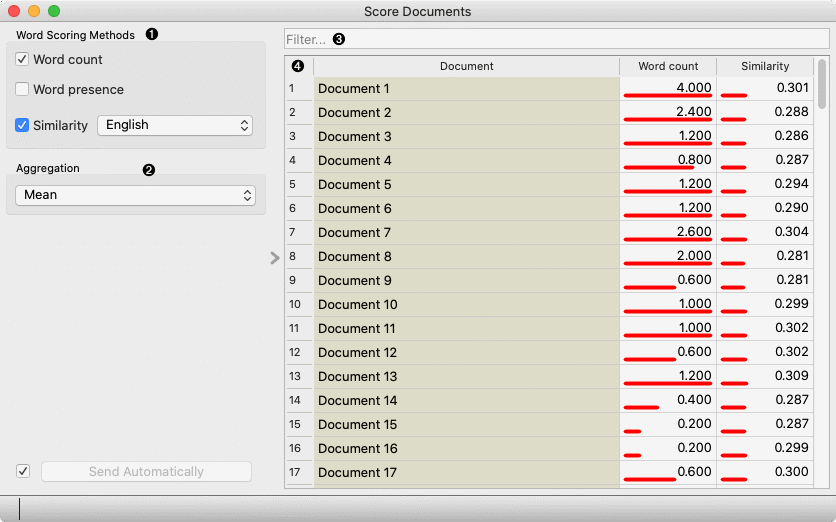
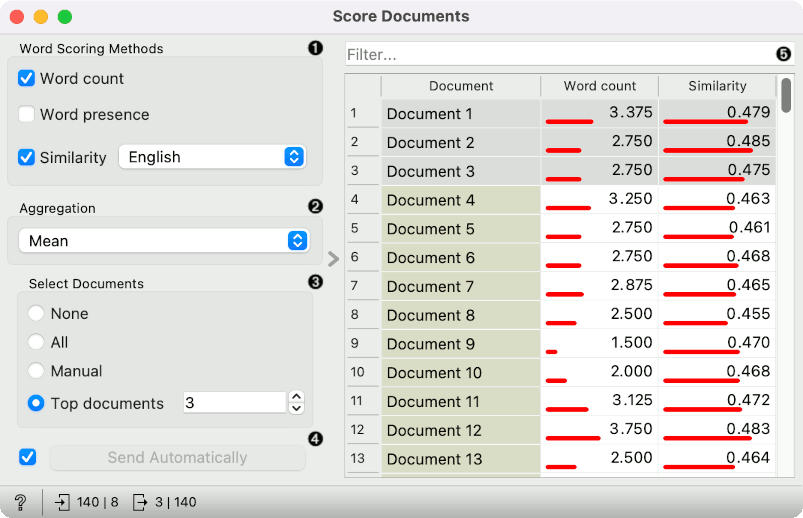
[DOC] Score Documents

diff --git a/doc/widgets/score-documents.md b/doc/widgets/score-documents.md
@@ -20,6 +20,24 @@ Scores documents based on word appearance.
    - **Word frequency**: The count of the frequency of a word in the text.  
    - **Word ratio**: Indicate the appearance of the word in the document.
    - **Similarity**: The cosine similarity between document embedding and word embedding.
-2. Select aggregation function to aggregate word scores in document scores.
-3. Filter documents based on the document title in the first column
-4. The table with the document titles in the first column and scores for in other columns.
+2. Select aggregation function to aggregate word scores to document scores (mean, median, min or max).
+3. Select documents:
+   - None: no documents are on the output
+   - All: the entire corpus is on the output
+   - Manual: manually select the documents from the table
+   - Top documents: n top-scored documents are sent to the output
+4. If *Send Automatically*, changes are communicated automatically. Alternatively press *Send*.
+5. Filter documents based on the document title in the first column. Below is the table with the document titles in the first column and scores in other columns.
+
+Example
+-------
+
+Score Documents is used to find documents that are semantically similar to the input word list. In the example below, we are using the *book-excerpts* corpus from the [Corpus](corpus-widget.md) widget.
+
+We pass the corpus to [Preprocess Text](preprocesstext.md), where we lowercase the text, split it into words with tokenization, use Lemmagen lemmatizer to cover tokens to their base form and finally remove stopwords.
+
+Next, we find characteristic words with [Extract Keywords](keywords.md) widget and send these words to [Word List](wordlist.md). There, we add some of our own words, such as princess, prince, king and queen.
+
+Finally, we pass the preprocess corpus from Preprocess Text to Score Documents and the word list from Word List widget. Score Documents scores each document based on how frequently the input words appear in it.
+
+![](images/Score-Documents-Example.png)
